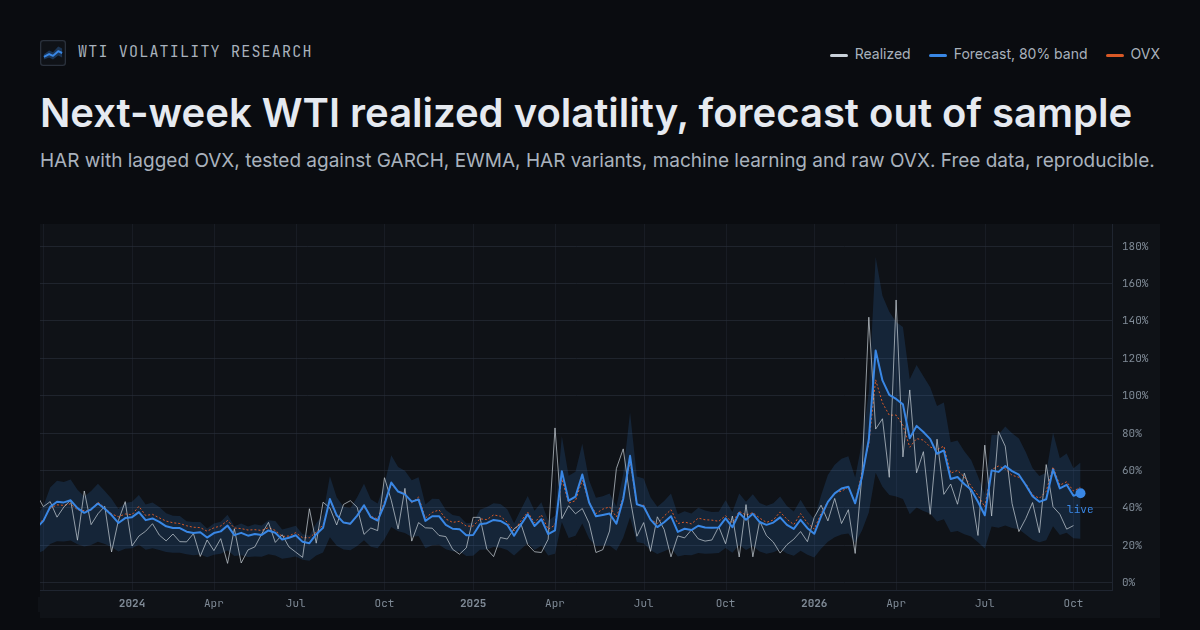
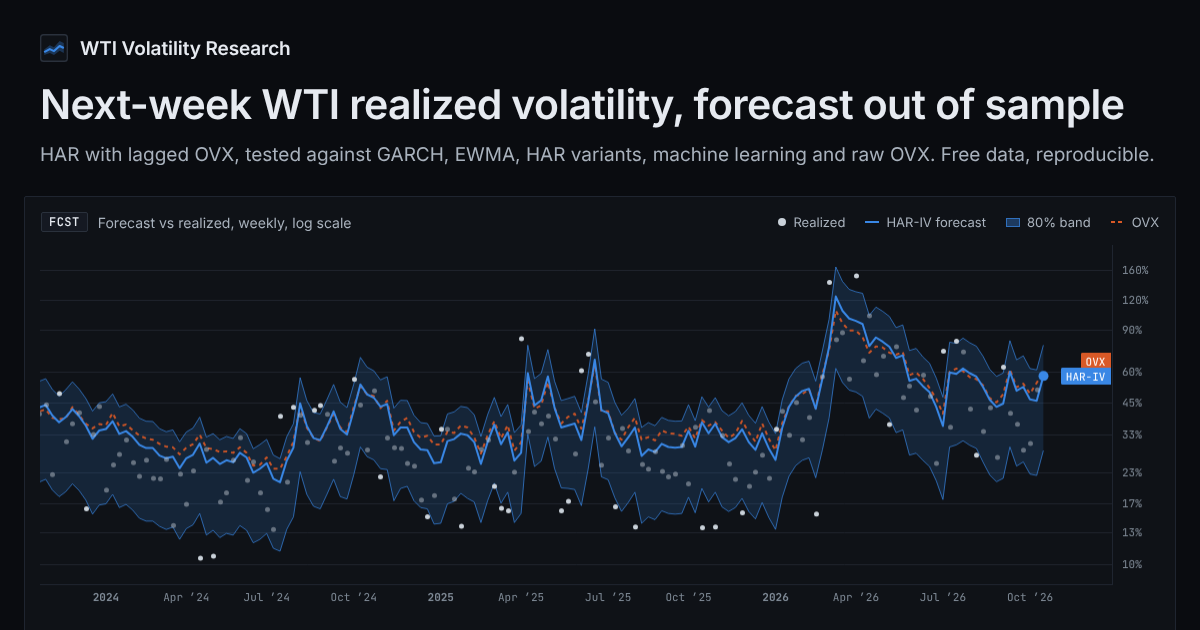
2.1.0: release notes, docs and figures for the new UI; React in its own chunk (#65)
- The README dashboard screenshot is retaken from the new UI with live data. The link-preview image is the FCST chart under the title, and its text quotes no statistic.
- The README's dashboard section describes the new page. ARCHITECTURE.md gains a Dashboard section.
- The CHANGELOG has a 2.1.0 section covering #56 and #60-#64; no research result changed. The version is 2.1.0 in package.json, CITATION.cff and pyproject.toml.
- React and React DOM build into their own preloaded chunk, so the app chunk is 291 kB, down from 511 kB.

Claude-Session: https://claude.ai/code/session_01MYRrxEEGgQQ9RxJwF8FskU

diff --git a/index.html b/index.html
@@ -30,7 +30,7 @@
     <meta property="og:image:height" content="630" />
     <meta
       property="og:image:alt"
-      content="WTI Volatility Research: weekly forecasts of next-week WTI realized volatility drawn against what was realized, with the forecast's 80% interval."
+      content="WTI Volatility Research: three years of weekly HAR-IV forecasts of next-week WTI realized volatility with their 80% band, drawn against the realized volatility and OVX on a log scale."
     />
     <meta name="twitter:card" content="summary_large_image" />
     <meta name="twitter:title" content="WTI Volatility Research" />
@@ -41,7 +41,7 @@
     <meta name="twitter:image" content="https://navnoorbawa.github.io/WTI-Crude-Oil-Futures/og-image.png" />
     <meta
       name="twitter:image:alt"
-      content="WTI Volatility Research: weekly forecasts of next-week WTI realized volatility drawn against what was realized, with the forecast's 80% interval."
+      content="WTI Volatility Research: three years of weekly HAR-IV forecasts of next-week WTI realized volatility with their 80% band, drawn against the realized volatility and OVX on a log scale."
     />
   </head>
   <body>

diff --git a/vite.config.js b/vite.config.js
@@ -153,9 +153,14 @@ export default defineConfig(({ command, mode }) => {
       rolldownOptions: {
         output: {
           // The charting library gets a chunk under its own name, so its size is traceable in the
-          // build output (otherwise it is named after whichever small module shares it).
+          // build output (otherwise it is named after whichever small module shares it). React and
+          // React DOM get their own chunk too: it loads in parallel with the app's, changes only on a
+          // dependency bump, so it stays cached across deploys, and keeps the app chunk under 500 kB.
           codeSplitting: {
-            groups: [{ name: 'lightweight-charts', test: /[\\/]node_modules[\\/](lightweight-charts|fancy-canvas)[\\/]/ }],
+            groups: [
+              { name: 'lightweight-charts', test: /[\\/]node_modules[\\/](lightweight-charts|fancy-canvas)[\\/]/ },
+              { name: 'react', test: /[\\/]node_modules[\\/](react|react-dom|scheduler)[\\/]/ },
+            ],
           },
         },
       },

diff --git a/CHANGELOG.md b/CHANGELOG.md
@@ -4,7 +4,49 @@ All notable changes. Research results are versioned like code: when a published 
 the correction is listed under **Errata** with the old and the new value, and the artifact that
 backs the new one.
 
-## Unreleased
+## 2.1.0 — 2026-10-27
+
+A release of the dashboard. No research result changed: the models, the benchmark lab, the ledger
+and every committed artifact are as in 2.0.0, and the live record is recorded, sealed and scored as
+before.
+
+### Dashboard
+
+- **The answer first.** The page opens on the research question and a one-line answer computed from
+  the benchmark lab's Diebold-Mariano tests, with the statistics and the sample behind it. Below the
+  tiles, an index lists the computed headlines of FCST, MODL, STAB, CALB, RISK, VRP and LIVE, each
+  linked to its section; a test keeps every row equal to its section's heading.
+- **This week's call, as recorded.** The hero shows the call the live record holds: its target
+  window, when it was recorded and sealed, the change since the previous call, the last calls, the
+  80% band with the region outside it, how many past weeks landed inside, below and above the band,
+  and the typical miss. A recomputation is labelled not scored, the probability that volatility
+  rises is one sentence labelled not calibrated, and the arithmetic is shown only when it reproduces
+  the number.
+- **Tiles** each pin one sample, with the weekly production figure beside it; a footnote names the
+  exceptions (coverage on the days with a band, VaR on weekly grid 0).
+- **Sections.** Thirteen, in four groups: evidence, market context, integrity and reference. FCST
+  draws the validated band and marks the weeks realized volatility fell outside it, and its table
+  gives each week's miss, log error and QLIKE. STAB compares each year with the OVX-only regression.
+  MODL shows Model Confidence Set membership with its robustness to the test's settings and the
+  sampling grids. CALB, CONE, RISK and VRP have dated marks, reconciled samples, and captions that
+  match their tables. LIVE draws the recent recorded calls with their bands and a 52-cell strip for
+  the promotion test, counts calls and independent weeks separately, and links the record's commit
+  history. LEDG is searchable and linkable. METH holds a model card, the data vintage, and how to
+  cite, correct and reuse the work.
+- **Reading tools.** Method notes in closed disclosures, which open for print, find-in-page and
+  links; glossary notes for QLIKE, MCS, SPA, DM, MZ, Kupiec, Christoffersen, DQ, conformal intervals
+  and more; source lines that link the payload files, and reproduce commands that link their
+  modules, with copy buttons; a copy-link button on each section; table views of the charts;
+  client-side CSV export (RFC 4180); view state in the URL, of which only reserved keys are read;
+  section codes grouped in the top bar, tracking the current section; a jump palette (`/` or
+  Ctrl/Cmd+K) and keyboard shortcuts (`?`), whose single-key shortcuts can be switched off; a print
+  stylesheet.
+- **Accessibility and loading.** Chart marks meet 3:1 contrast, the page supports forced colors, the
+  canvas charts can be read point by point from the keyboard, and labels with notation (VaR, p) are
+  no longer set in capitals. Lazy charts and the footer no longer shift the layout (cumulative
+  layout shift was 0.20 to 0.26); `data.json` and the fonts are preloaded.
+- **Errors.** A missing `research.json` shows a notice with Retry, and the sections that need it say
+  so; an invalid `data.json` gets a specific error.
 
 ### Fixed
 
@@ -12,6 +54,37 @@ backs the new one.
   They used the visitor's `navigator.language`, which threw on a POSIX locale tag (`en-US@posix`)
   and left both charts blank. The price chart, which formats its own labels, carries the same
   locale.
+- **The newest recorded call.** The hero matched calls on the snapshot's as-of date, so the Oct 26
+  refresh, which got data only through Oct 23, showed the Oct 23 call as this week's call while the
+  record already held one from the Oct 26 close. When the newest recorded call of the same model
+  version is from a later close than the snapshot, the hero, the forecast chart's live point, CONE
+  and METH now show that call, with a note that the snapshot is older; a call of another model
+  version is never substituted.
+- **One count per quantity.** RISK's 95% breach count was 46 in the caption (Kupiec) and 45 in the
+  chart summary (rounded series). The caption gives the Kupiec counts and, when rounding makes them
+  differ, the drawn counts and why. SPA and Mincer-Zarnowitz p-values, ledger t-statistics, counts,
+  %/month spreads and supply-study p-values each keep one precision across sections. The RISK title
+  names the VaR method (filtered historical simulation), and the model card names the sample of its
+  direction accuracy.
+- **Review findings.** A review of the live page through three lenses (layout at seven widths,
+  interaction and accessibility, data states) confirmed 41 findings, each reproduced by an
+  independent check; all are fixed. Among them: tablet tables show their result columns first; chart
+  badges and markers no longer cover labels or lines; cold deep links to model rows scroll to the
+  row; glossary popups no longer widen the phone layout; printing early shows the charts; the hero
+  says when a call will never be scored, for example because its window spans a roll; LIVE hides
+  QLIKE values it calls too few to compare; promotion wording follows the verdict; days to expiry
+  age with the snapshot.
+
+### Pipeline and docs
+
+- The live record summary's `recent` rows repeat more of what each entry already stores (recording
+  and seal times, base session, the probability that volatility rises, the recorded inputs) and say
+  whether the window spans a roll (`spans_roll`, the test resolution already applies), so the page
+  can show each seal against the settlement that opens its window. The data contract and
+  `validate_frozen_payload.py` cover the new optional fields.
+- zod 4.6.7 (GHSA-mrhx-c7xc-m3w5; a dev-only transitive dependency).
+- The README's dashboard screenshot and the link-preview image are regenerated from the new page,
+  and the README and `docs/ARCHITECTURE.md` describe it.
 
 ## 2.0.0 — 2026-10-20
 

diff --git a/README.md b/README.md
@@ -278,8 +278,9 @@ For any continuous i.i.d. series, calling 'up' exactly when the current 5-sessio
 The first version of this project reported its direction accuracy, against a base rate near 50%, as
 the headline evidence of skill. It is not evidence of skill, and it is retracted
 ([errata](CHANGELOG.md#errata-published-numbers-that-were-wrong)). The live record reports
-direction accuracy only beside this floor. Among the dashboard's headline figures, the
-model-implied probability that volatility rises is shown last and labelled uncalibrated.
+direction accuracy only beside this floor. On the dashboard, the model-implied probability that
+volatility rises is not a headline figure: it is one sentence after this week's call and its other
+figures, labelled not calibrated and not evidence of skill.
 
 ### 2.7 Robustness
 
@@ -296,7 +297,7 @@ Source: lab, except the bullet marked production run.
 <!-- [[[end]]] -->
 
 Calendar-year results, the volatility cone and the per-grid tables are in `data/vol_lab.json` and
-on the dashboard's research pages.
+on the dashboard, in its STAB, CONE and MODL (by grid) sections.
 
 ## 3. Live record and governance
 
@@ -590,11 +591,36 @@ post-mortem runs.
 
 ## 8. System
 
-![The dashboard](docs/figures/dashboard.png)
+![The first screen of the dashboard: the research question and its computed answer, this week's call as recorded, and the evidence tiles](docs/figures/dashboard.png)
 
-*The dashboard at [navnoorbawa.github.io/WTI-Crude-Oil-Futures](https://navnoorbawa.github.io/WTI-Crude-Oil-Futures/):
-the live forecast and its interval, the benchmark field, risk, the live record, and the research
-pages.*
+*The first screen of the dashboard at [navnoorbawa.github.io/WTI-Crude-Oil-Futures](https://navnoorbawa.github.io/WTI-Crude-Oil-Futures/):
+the research question, with an answer computed from the benchmark lab's Diebold-Mariano tests and
+their sample; this week's call as recorded (its target window and 80% interval, how often past
+weeks landed inside the band, and when the call was recorded and sealed); and tiles that each name
+their sample.*
+
+Every statistic on the page is read or computed from three static files: `data.json` (the live
+forecast, its validation and live record, and the price history), `research.json` (the benchmark
+lab, the post-mortem, the side studies and the ledger) and the price quote. None is typed into the
+copy, and the headlines are computed from the same files. Below the tiles, an index lists the
+headlines of FCST, MODL, STAB, CALB, RISK, VRP and LIVE, each linked to its section, and thirteen
+sections follow in four groups:
+
+| Group | Sections |
+|---|---|
+| Evidence | FCST forecast vs realized · MODL model leaderboard · STAB stability · CALB calibration · RISK VaR backtest |
+| Market context | CONE volatility cone · VRP implied vs realized |
+| Integrity | LIVE live record · LEAK leak post-mortem |
+| Reference | STDY side studies · LEDG research ledger · METH methodology · MKT market |
+
+Each section names its sample beside its headline. Method notes sit in closed disclosures, and a
+source line under each section links the payload fields it reads and, where one exists, the command
+that rebuilds them. The chart sections switch to a table of the same numbers, and most tables
+download as CSV. Terms such as QLIKE, MCS, SPA and the VaR tests open a glossary note. The address
+keeps the view (the section, chart ranges, open tables, ledger filters), so a link reopens it. A
+jump palette (`/` or Ctrl/Cmd+K) finds sections, models, ledger hypotheses and glossary terms, and
+`?` lists the keyboard shortcuts. The page prints, or saves as PDF, with every figure drawn and
+every note open.
 
 The site runs with no server. A scheduled workflow builds a static snapshot and deploys it to GitHub
 Pages ([architecture](docs/ARCHITECTURE.md)):
@@ -606,7 +632,8 @@ Pages ([architecture](docs/ARCHITECTURE.md)):
   the live site or superseded by a newer run, deploys, then seals the live record and pushes it to
   `live-data`. The only secret in use is a free EIA key.
 - **Price, every 15 minutes (best effort).** Updates a quote file on `live-data` that the page reads
-  directly. Each quote carries its own exchange timestamp, and the page shows its age.
+  directly. Each quote carries its own exchange timestamp; the page shows that time and marks the
+  quote live only while it is under 30 minutes old.
 - **Research.** `research.json` is copied from committed artifacts only, never computed at deploy
   time, so the page shows exactly what the repository records; which of those records CI rebuilds
   is set out in section 7.
@@ -634,7 +661,7 @@ Pages ([architecture](docs/ARCHITECTURE.md)):
 | [`backend/carry_signal_test.py`](backend/carry_signal_test.py), [`backend/supply_shock_playbook.py`](backend/supply_shock_playbook.py) | Side studies |
 | [`backend/research_ledger.py`](backend/research_ledger.py) | The ledger of every hypothesis tested |
 | [`freeze.py`](freeze.py), [`scripts/`](scripts) | Payload freeze, validation, research bundle, generated docs and figures |
-| [`src/`](src) | The dashboard (React, lightweight-charts) |
+| [`src/`](src) | The dashboard (React; canvas charts with lightweight-charts, SVG charts with d3-scale and d3-shape) |
 | [`data/`](data) | Committed artifacts and the pinned snapshot |
 
 Run the dashboard locally against a fresh snapshot:

diff --git a/docs/ARCHITECTURE.md b/docs/ARCHITECTURE.md
@@ -113,7 +113,9 @@ flowchart TB
   entry as pending until the next run.
 - **Cadence.** GitHub runs scheduled workflows on a best-effort basis: the refresh is scheduled
   every 4 hours and the quote every 15 minutes, and either can land late or be skipped. The
-  dashboard shows the age of everything it displays.
+  dashboard dates what it displays rather than assuming a cadence: the top bar gives the snapshot's
+  age and turns amber once a refresh is overdue, the quote carries its exchange time, and each
+  section names its sample.
 
 ## Code map
 
@@ -132,5 +134,23 @@ flowchart TB
 | `backend/research_ledger.py` | Every hypothesis tested, with multiplicity adjustments |
 | `scripts/validate_frozen_payload.py` | Deploy gate (stdlib only) |
 | `scripts/build_research_bundle.py`, `scripts/readme_blocks.py`, `scripts/make_figures.py` | research.json, the generated docs and the figures, from the artifacts |
-| `src/` | Dashboard |
+| `src/` | Dashboard (below) |
 | `docs/DATA_CONTRACT.md` | The data.json / research.json schema |
+
+## Dashboard
+
+A static React app built by Vite. It fetches `data.json` and `research.json` from its own origin in
+parallel, and the quote from both `live-data` and the deploy's own `price.json`, keeping the newest
+usable one. `research.json` is optional: without it the sections that need it say so and a notice
+offers Retry. Every figure is code-split; it mounts when it nears the screen or, once the page has
+settled, in the background one at a time, and printing mounts them all.
+
+| Path | Role |
+|---|---|
+| `src/app/` | Shell (top bar, footer), data hooks, the section registry (`sections.js`), view state in the URL (`viewState.js`), the jump palette's commands and keyboard shortcuts |
+| `src/panels/` | The verdict lede, this week's call, the tiles, the evidence index and the market strip; one panel per section |
+| `src/lib/` | Formatting, the computed headlines and claims (`assertions.js`, `research.js`, `verdict.js`, `tiles.js`), the glossary, CSV export, print |
+| `src/charts/` | Canvas charts on lightweight-charts (forecast, VaR, price) and SVG charts on d3-scale and d3-shape |
+| `src/components/` | Shared pieces: the panel frame (method notes, source and reproduce lines), tables with CSV export, the palette, glossary terms |
+| `src/theme/`, `src/styles/` | Design tokens (mirrored for canvas in `chartTheme.js`; a test keeps the two equal) and stylesheets |
+| `tests/frontend/` | `node --test` suites; `render.test.mjs` server-renders the page against `tests/fixtures/` |
